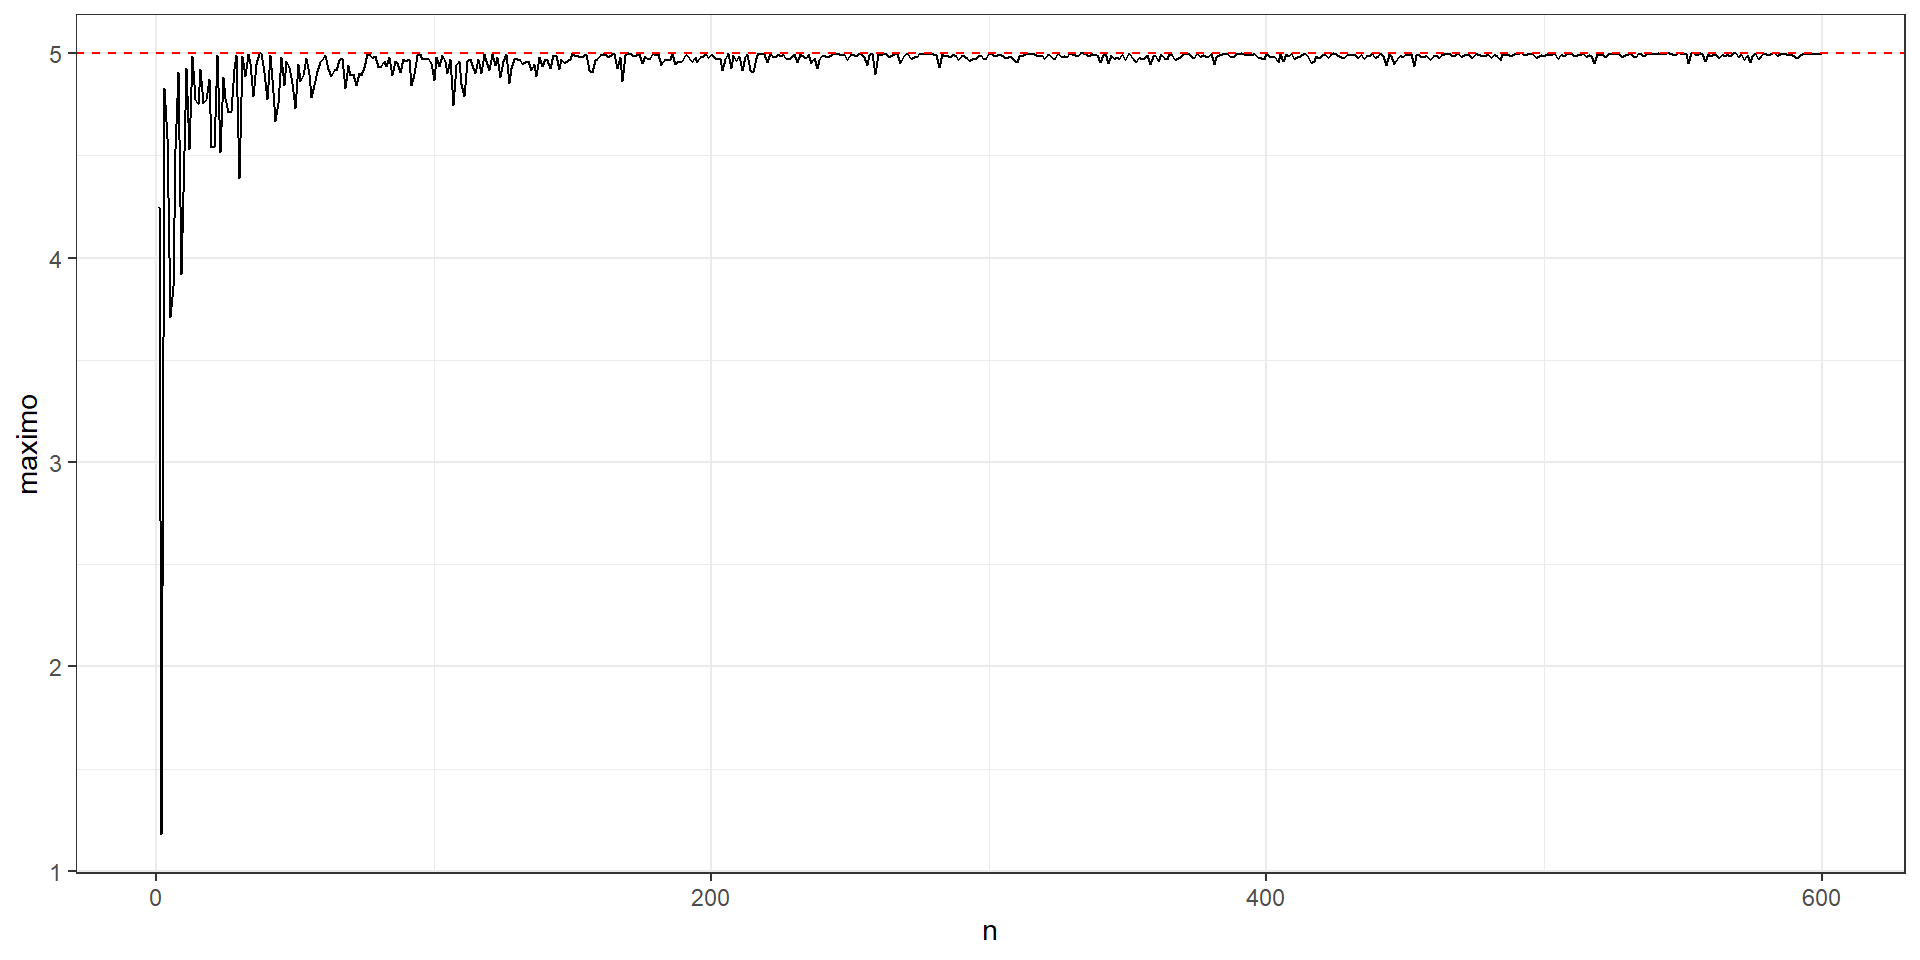
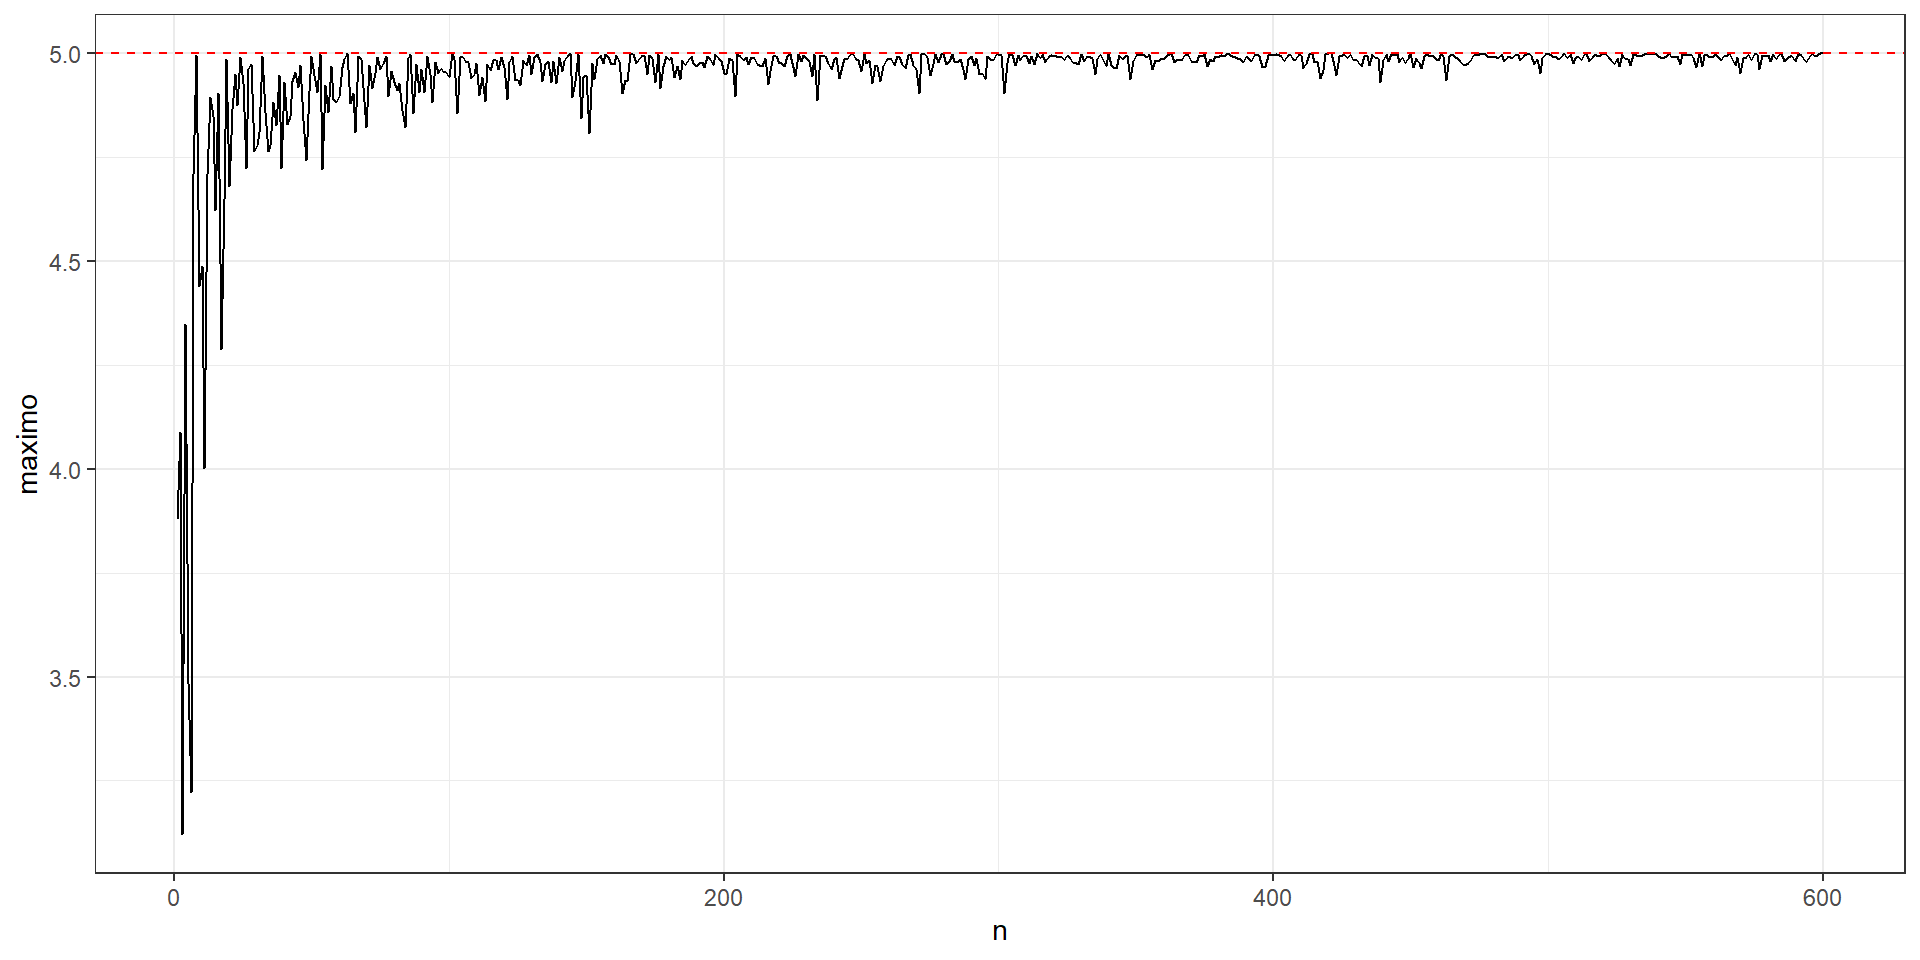
funcion indicadora para suficiencia

diff --git a/XS3310-I25_05.html b/XS3310-I25_05.html
@@ -527,6 +527,24 @@
 <p><span class="math display">\[\mathcal{L}(\lambda) = \prod_{j=1}^{n} \frac{\lambda^{x_{j}}e^{-\lambda}}{x_{j}!} = \frac{\lambda^{\sum x_{j}}e^{-n\lambda}}{\prod x_{j}! }\]</span></p>
 <p>Si tomamos <span class="math inline">\(U = \sum_{j=1}^{n} X_{j}\)</span> entonces podemos observar que <span class="math inline">\(g(u,\lambda) = \lambda^{u} e^{-n\lambda}\)</span> y <span class="math inline">\(h(x_{1}, x_{2}, ... , x_{n}) = \frac{1}{\prod x_{j}! }\)</span> cumplen que su producto sea igual a la verosimilitud, por lo que <span class="math inline">\(U = \sum_{j=1}^{n} X_{j}\)</span> es un estadístico suficiente mínimo.</p>
 </section>
+<section class="slide level2">
+
+<p><strong>Ejemplo:</strong> Sea <span class="math inline">\(X_{1}, X_{2}, ... , X_{n}\)</span> una muestra aleatoria de una población uniforme en el intervalo <span class="math inline">\((0,\theta)\)</span>. Demuestre que el máximo muestral es un estimador suficiente para <span class="math inline">\(\theta\)</span> por técnica de factorización.</p>
+<p><strong>Solución:</strong> Como el dominio de la función de densidad depende del parámetro de interés, vamos a introducir el concepto de la función indicadora. Para valores <span class="math inline">\(a&lt;b\)</span>: <span class="math display">\[I_{[a, b]}(y)=\left\{\begin{array}{lc}
+1, &amp; \text { si } a \leq y \leq b, \\
+0, &amp; \text { otros casos. }
+\end{array} \right.\]</span> De esta forma, la función de densidad de una uniforme en el intervalo <span class="math inline">\((0,\theta)\)</span> se puede expresar como <span class="math display">\[f(y \mid \theta)=\frac{1}{\theta} I_{[0, \theta]}(y).\]</span></p>
+</section>
+<section class="slide level2">
+
+<p><span class="math display">\[ \Rightarrow L(\theta)=\frac{1}{\theta^n} \prod\limits_{i=1}^n I_{[0, \theta]}\left(y_i\right)=\frac{1}{\theta^n} I_{[0, \theta]}\left(y_{(n)}\right),\]</span></p>
+<p>por el hecho de que:</p>
+<ul>
+<li><p><span class="math inline">\(\prod\limits_{i=1}^n I_{[0, \theta]}\left(y_i\right)\)</span> es <span class="math inline">\(1\)</span> si y solamente si para todo <span class="math inline">\(i=1,...,n\)</span>, <span class="math inline">\(I_{[0, \theta]}\left(y_i\right)=1\)</span>.</p></li>
+<li><p><span class="math inline">\(\prod\limits_{i=1}^n I_{[0, \theta]}\left(y_i\right)\)</span> es <span class="math inline">\(0\)</span> si y soloamente si para algún <span class="math inline">\(i=1,...,n\)</span>, <span class="math inline">\(I_{[0, \theta]}\left(y_i\right)=0\)</span>.</p></li>
+<li><p>Finalmente, definiendo <span class="math inline">\(h(y)=1\)</span> y <span class="math inline">\(g\left(y_{(n)}, \theta\right)=\frac{1}{\theta^n} I_{0, \theta}\left(y_{(n)}\right)\)</span>, tenemos que el máximo muestral <span class="math inline">\(Y_{(n)}\)</span> es suficiente para <span class="math inline">\(\theta\)</span>.</p></li>
+</ul>
+</section>
 <section id="ejercicios-adicionales" class="slide level2">
 <h2>Ejercicios adicionales</h2>
 <ul>
